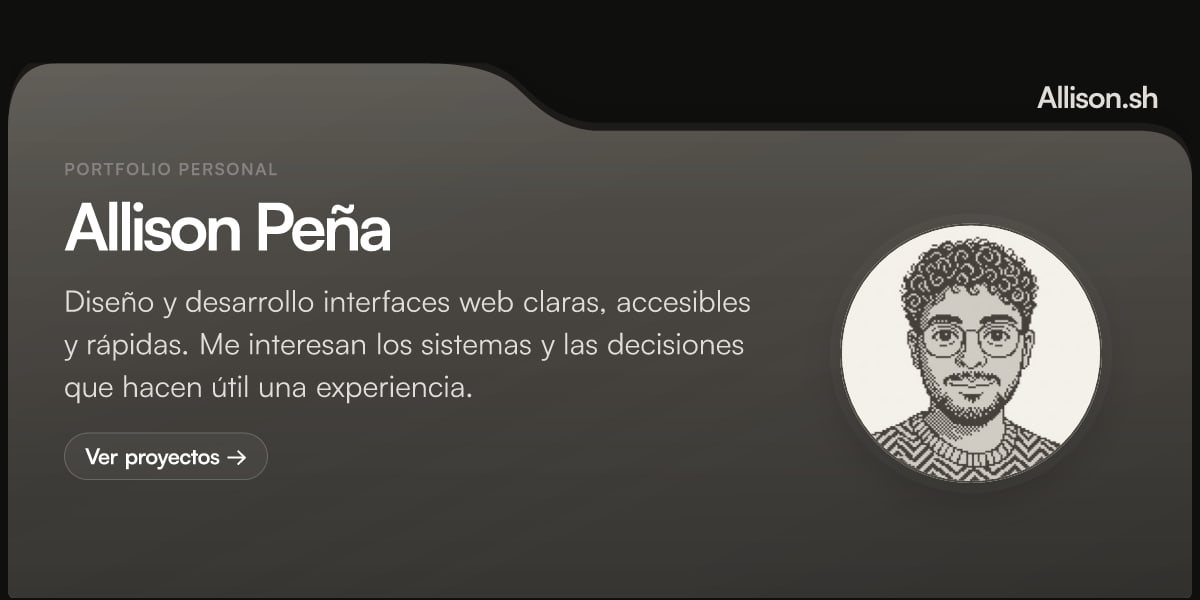
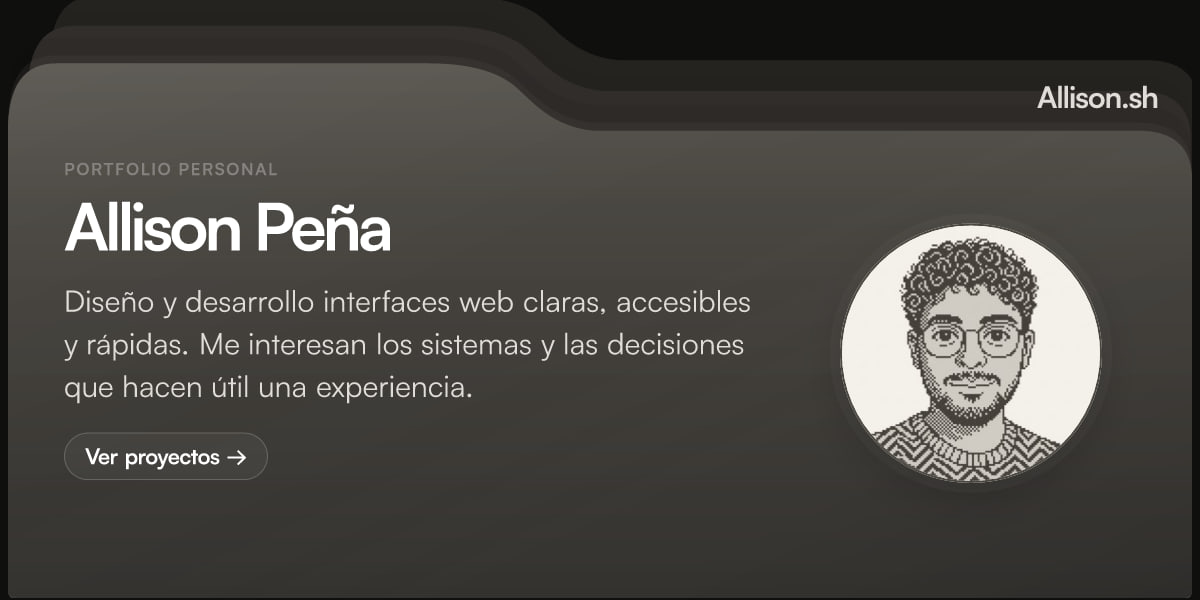
Refine OG folder stack layering

Changed region(s): [[0.0308, 0.03, 1.0, 0.27]]

diff --git a/scripts/og/template.ts b/scripts/og/template.ts
@@ -104,6 +104,26 @@ export async function renderSocialSvg(
     height: layout.folderHeight ?? baseFolderGeometry.height + layout.folderHeightBoost,
   };
   const folderPath = createFolderPath(folderGeometry);
+  const backFolders = [
+    {
+      x: 42,
+      y: -68,
+      fill: '#24221F',
+      sheenOpacity: 0.07,
+      shadowOpacity: 0.11,
+      scaleX: 0.97,
+      scaleY: 0.952,
+    },
+    {
+      x: 20,
+      y: -38,
+      fill: '#2F2C29',
+      sheenOpacity: 0.1,
+      shadowOpacity: 0.12,
+      scaleX: 0.982,
+      scaleY: 0.97,
+    },
+  ];
 
   return satori(
     html(`
@@ -160,15 +180,15 @@ export async function renderSocialSvg(
         >
           <svg
             width="${folderGeometry.width}"
-            height="${folderGeometry.height}"
-            viewBox="0 0 ${folderGeometry.width} ${folderGeometry.height}"
-            style="position: absolute; inset: 0; display: flex; overflow: visible;"
+            height="${folderGeometry.height + 140}"
+            viewBox="0 -140 ${folderGeometry.width} ${folderGeometry.height + 140}"
+            style="position: absolute; left: 0; top: -140px; display: flex; overflow: visible;"
           >
             <defs>
               <linearGradient id="folder-fill-gradient" x1="0" y1="0" x2="0" y2="1">
-                <stop offset="0%" stop-color="#4C4943" />
-                <stop offset="46%" stop-color="#413E39" />
-                <stop offset="100%" stop-color="#34322F" />
+                <stop offset="0%" stop-color="#4A4640" />
+                <stop offset="46%" stop-color="#3D3A35" />
+                <stop offset="100%" stop-color="#312F2C" />
               </linearGradient>
               <linearGradient id="folder-inner-glow" x1="0" y1="0" x2="1" y2="1">
                 <stop offset="0%" stop-color="rgba(255,255,255,0.065)" />
@@ -181,6 +201,29 @@ export async function renderSocialSvg(
                 <stop offset="100%" stop-color="rgba(255,255,255,0)" />
               </linearGradient>
             </defs>
+            ${backFolders
+              .map(
+                (folder) => `
+                  <path
+                    d="${folderPath}"
+                    fill="${COLORS.folderShadow}"
+                    transform="translate(${folder.x} ${folder.y - 16}) scale(${folder.scaleX} ${folder.scaleY})"
+                    opacity="${folder.shadowOpacity.toFixed(3)}"
+                  />
+                  <path
+                    d="${folderPath}"
+                    fill="${folder.fill}"
+                    transform="translate(${folder.x} ${folder.y}) scale(${folder.scaleX} ${folder.scaleY})"
+                  />
+                  <path
+                    d="${folderPath}"
+                    fill="url(#folder-top-sheen)"
+                    transform="translate(${folder.x} ${folder.y}) scale(${folder.scaleX} ${folder.scaleY})"
+                    opacity="${folder.sheenOpacity.toFixed(3)}"
+                  />
+                `,
+              )
+              .join('')}
             <path d="${folderPath}" fill="${COLORS.folderShadow}" transform="translate(0 -26)" opacity="0.26" />
             <path d="${folderPath}" fill="#57524B" transform="translate(0 -8)" opacity="0.18" />
             <path d="${folderPath}" fill="${COLORS.border}" transform="translate(0 1)" opacity="0.92" />
